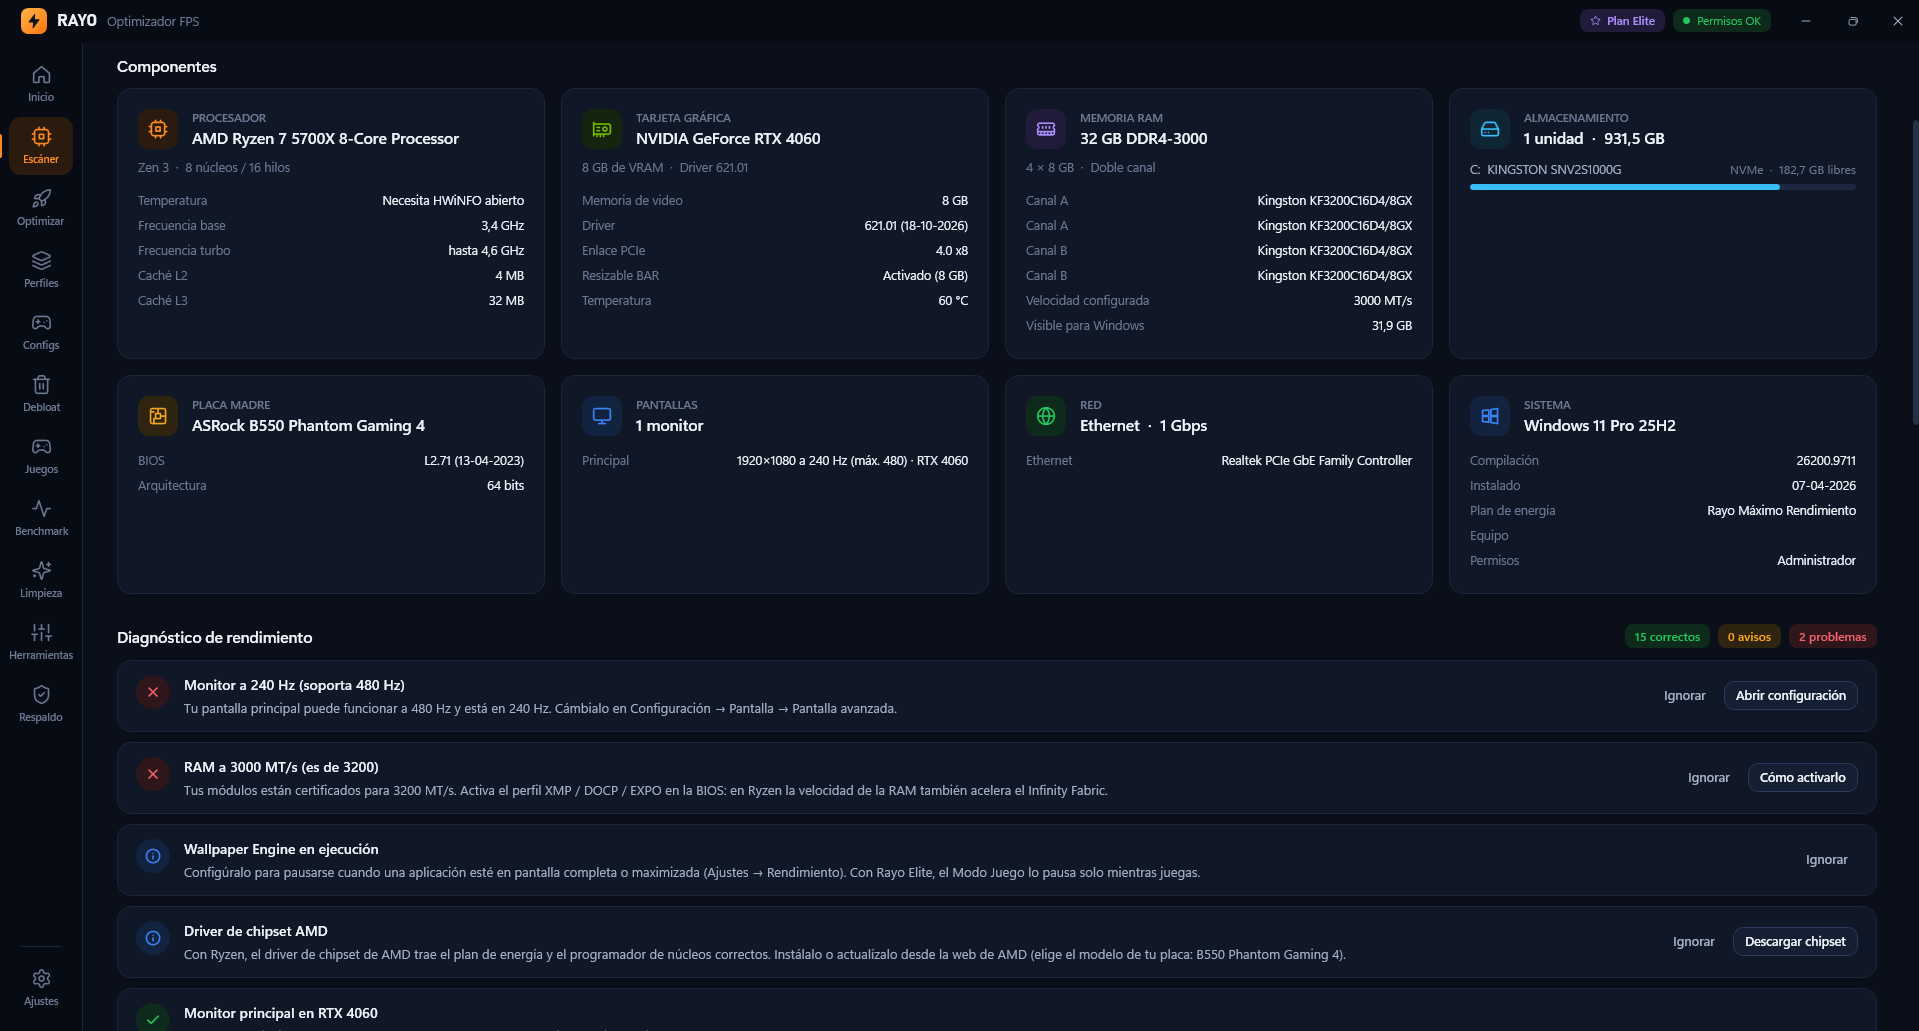
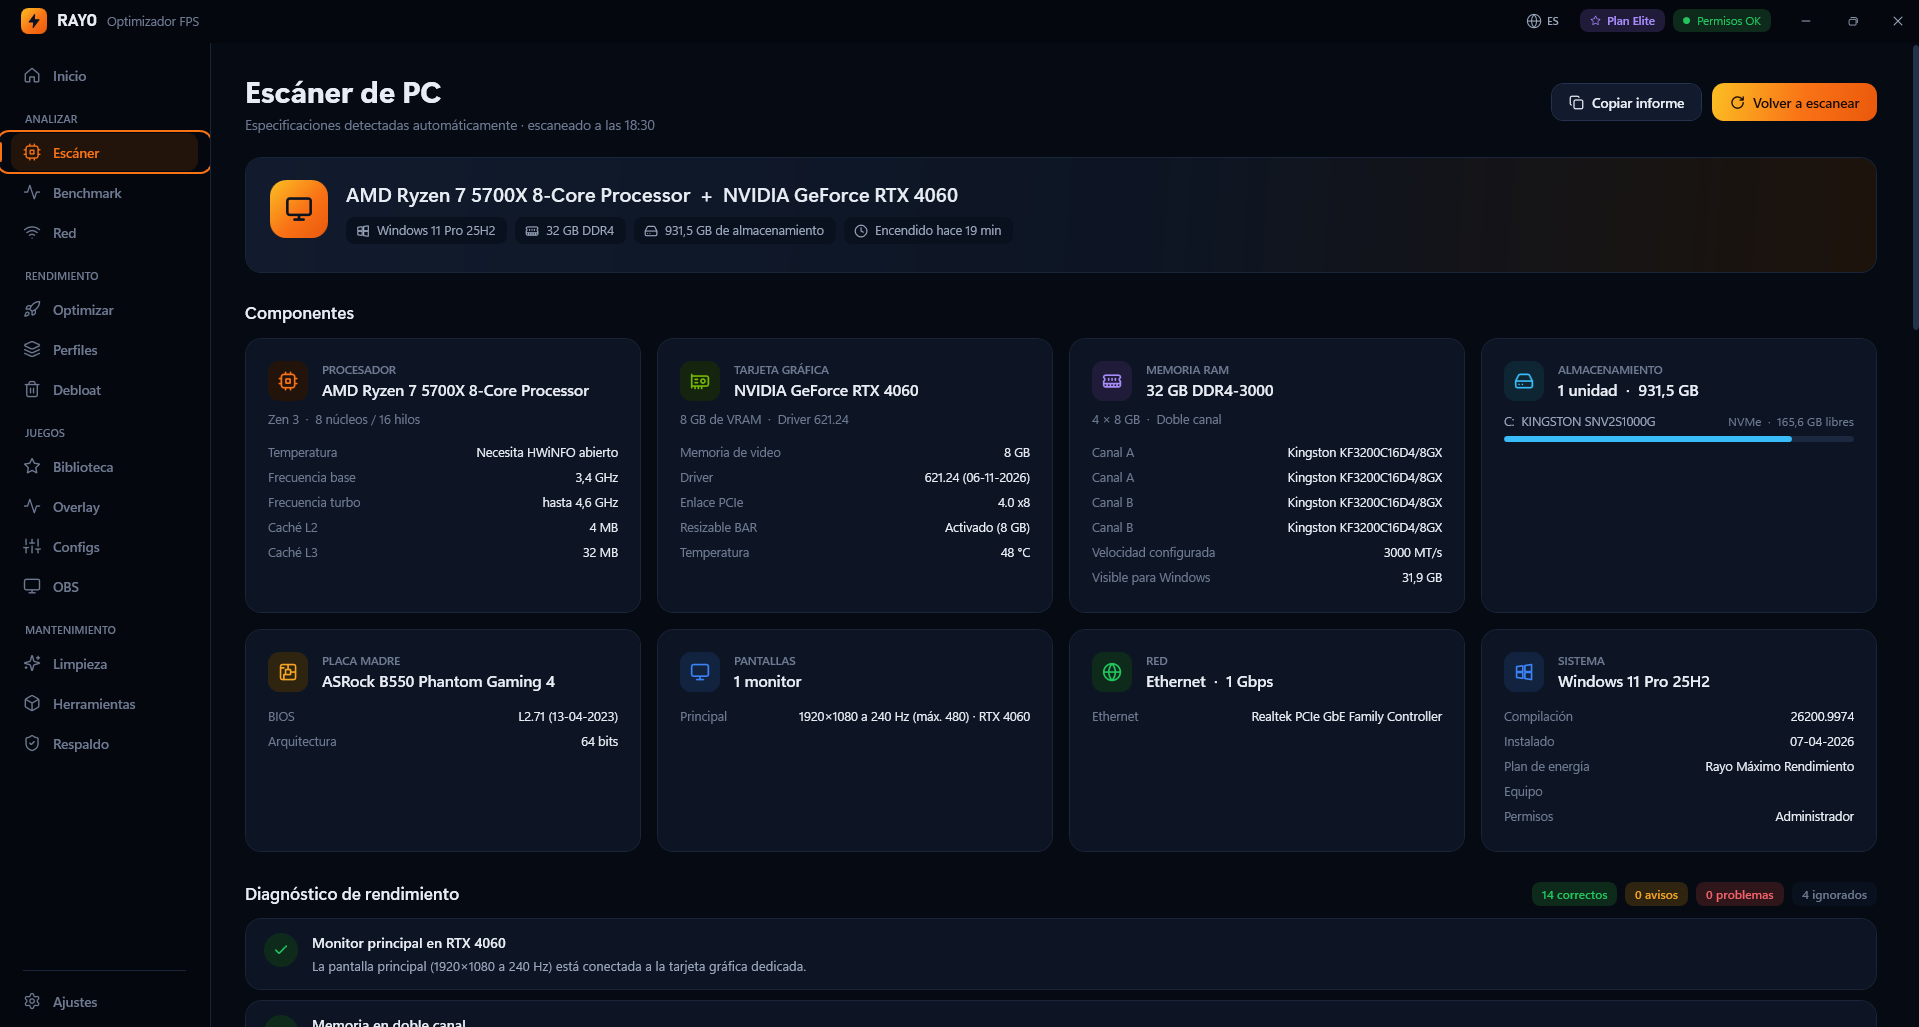
Capturas nuevas de Rayo 3.2.3: inicio, escáner, benchmark, optimizar, perfiles y debloat
Sacadas de la app instalada el 2026-11-19; nombre del equipo tapado en Escáner.

diff --git a/index.html b/index.html
@@ -156,7 +156,7 @@
     <div class="wrap hero__shot">
       <figure class="window window--hero">
         <button class="zoom" type="button" aria-label="Ampliar captura de la pantalla de inicio">
-          <img src="assets/capturas/inicio.png" width="1919" height="750" fetchpriority="high"
+          <img src="assets/capturas/inicio.png" width="1919" height="958" fetchpriority="high"
                alt="Pantalla de inicio de Rayo: puntuación del PC, uso de CPU, GPU y RAM en vivo y la siguiente optimización recomendada">
         </button>
       </figure>
@@ -233,7 +233,7 @@
 
         <div class="tour__panels">
           <div class="tour__panel" role="tabpanel" id="panel-inicio" aria-labelledby="tab-inicio" tabindex="0">
-            <figure class="window"><button class="zoom" type="button" aria-label="Ampliar captura"><img src="assets/capturas/inicio.png" width="1919" height="750" loading="lazy" alt="Inicio de Rayo con puntuación, uso de CPU, GPU y RAM y recomendaciones pendientes"></button></figure>
+            <figure class="window"><button class="zoom" type="button" aria-label="Ampliar captura"><img src="assets/capturas/inicio.png" width="1919" height="958" loading="lazy" alt="Inicio de Rayo con puntuación, uso de CPU, GPU y RAM y recomendaciones pendientes"></button></figure>
             <div class="tour__copy">
               <div><h3>Tu PC de un vistazo</h3><p>Una puntuación que sube a medida que optimizas, el uso de CPU, GPU y RAM en vivo y la siguiente mejora recomendada para tu equipo.</p></div>
               <ul class="ticks">
@@ -245,7 +245,7 @@
           </div>
 
           <div class="tour__panel" role="tabpanel" id="panel-escaner" aria-labelledby="tab-escaner" tabindex="0" hidden>
-            <figure class="window"><button class="zoom" type="button" aria-label="Ampliar captura"><img src="assets/capturas/escaner.png" width="1919" height="1031" loading="lazy" alt="Escáner de Rayo con los componentes del PC y el diagnóstico de rendimiento"></button></figure>
+            <figure class="window"><button class="zoom" type="button" aria-label="Ampliar captura"><img src="assets/capturas/escaner.png" width="1919" height="1027" loading="lazy" alt="Escáner de Rayo con los componentes del PC y el diagnóstico de rendimiento"></button></figure>
             <div class="tour__copy">
               <div><h3>Sabe exactamente qué tienes</h3><p>Detecta procesador, gráfica, RAM canal por canal, discos, placa madre y BIOS, pantallas, red y versión de Windows. Después revisa la configuración y te dice qué corregir y cómo.</p></div>
               <ul class="ticks">
@@ -257,7 +257,7 @@
           </div>
 
           <div class="tour__panel" role="tabpanel" id="panel-optimizar" aria-labelledby="tab-optimizar" tabindex="0" hidden>
-            <figure class="window"><button class="zoom" type="button" aria-label="Ampliar captura"><img src="assets/capturas/optimizar.png" width="1919" height="1033" loading="lazy" alt="Lista de optimizaciones de Rayo agrupadas por categoría, con etiquetas de riesgo"></button></figure>
+            <figure class="window"><button class="zoom" type="button" aria-label="Ampliar captura"><img src="assets/capturas/optimizar.png" width="1919" height="1029" loading="lazy" alt="Lista de optimizaciones de Rayo agrupadas por categoría, con etiquetas de riesgo"></button></figure>
             <div class="tour__copy">
               <div><h3>87 ajustes, explicados en español</h3><p>FPS y latencia, GPU y NVIDIA, CPU y energía, registro, red y ping, mouse y teclado, memoria y disco, calidad de vida y aceleración por hardware en apps como Discord, Chrome o Spotify. Más privacidad y servicios en Debloat.</p></div>
               <ul class="ticks">
@@ -269,7 +269,7 @@
           </div>
 
           <div class="tour__panel" role="tabpanel" id="panel-perfiles" aria-labelledby="tab-perfiles" tabindex="0" hidden>
-            <figure class="window"><button class="zoom" type="button" aria-label="Ampliar captura"><img src="assets/capturas/perfiles.png" width="1919" height="830" loading="lazy" alt="Perfiles de Rayo: Recomendado, Competitivo, Streaming y Portátil"></button></figure>
+            <figure class="window"><button class="zoom" type="button" aria-label="Ampliar captura"><img src="assets/capturas/perfiles.png" width="1919" height="848" loading="lazy" alt="Perfiles de Rayo: Recomendado, Competitivo, Streaming y Portátil"></button></figure>
             <div class="tour__copy">
               <div><h3>Un clic según cómo juegas</h3><p>Recomendado para cualquier uso, Competitivo para shooters, Streaming para no romper tus transmisiones y Portátil para jugar con el cargador conectado. Ves qué incluye cada perfil antes de aplicarlo.</p></div>
               <ul class="ticks">
@@ -293,7 +293,7 @@
           </div>
 
           <div class="tour__panel" role="tabpanel" id="panel-debloat" aria-labelledby="tab-debloat" tabindex="0" hidden>
-            <figure class="window"><button class="zoom" type="button" aria-label="Ampliar captura"><img src="assets/capturas/debloat.png" width="1919" height="640" loading="lazy" alt="Debloat de Windows en Rayo con apps preinstaladas que se pueden quitar"></button></figure>
+            <figure class="window"><button class="zoom" type="button" aria-label="Ampliar captura"><img src="assets/capturas/debloat.png" width="1919" height="651" loading="lazy" alt="Debloat de Windows en Rayo con apps preinstaladas que se pueden quitar"></button></figure>
             <div class="tour__copy">
               <div><h3>Fuera lo que no usas</h3><p>34 apps preinstaladas, 6 servicios y 15 ajustes de privacidad y telemetría: Copilot, Recall, Widgets, anuncios, Cortana y apps de fabricantes. Las apps se reinstalan desde Microsoft Store cuando quieras.</p></div>
               <ul class="ticks">
@@ -317,7 +317,7 @@
           </div>
 
           <div class="tour__panel" role="tabpanel" id="panel-benchmark" aria-labelledby="tab-benchmark" tabindex="0" hidden>
-            <figure class="window"><button class="zoom" type="button" aria-label="Ampliar captura"><img src="assets/capturas/benchmark.png" width="1919" height="1032" loading="lazy" alt="Benchmark de FPS de Rayo con promedio, 1 % low, 0,1 % low y variación"></button></figure>
+            <figure class="window"><button class="zoom" type="button" aria-label="Ampliar captura"><img src="assets/capturas/benchmark.png" width="1919" height="948" loading="lazy" alt="Benchmark de FPS de Rayo con promedio, 1 % low, 0,1 % low y variación"></button></figure>
             <div class="tour__copy">
               <div><h3>Mide antes y después</h3><p>Registra los FPS reales mientras juegas: promedio, 1 % low (tus peores momentos) y tirones. Etiqueta cada pasada y compara con números de tu propio PC.</p></div>
               <ul class="ticks">
